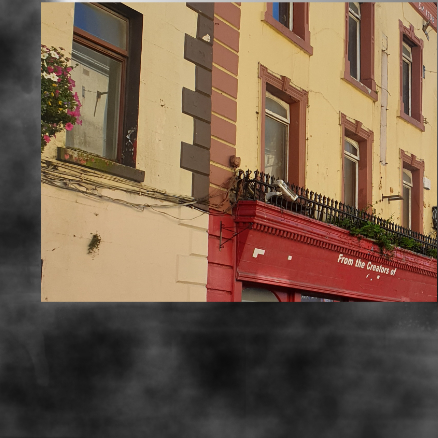
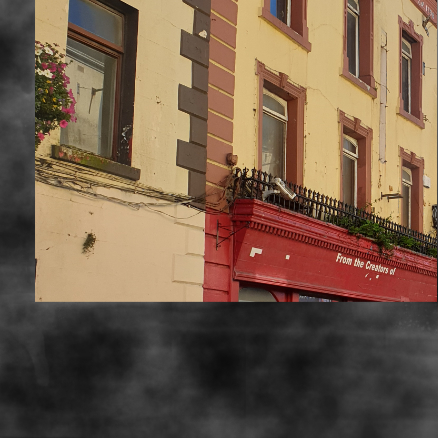
PS

diff --git a/index.html b/index.html
@@ -67,7 +67,7 @@
 				<!-- One -->
 					<section id="one" class="wrapper style2 spotlights">
 						<section>
-							<a href="#" class="image"><img src="images/BI.jpg" alt="" data-position="center center" /></a>
+							<a href="#" class="image"><img src="images/BI-1.jpg" alt="" data-position="center center" /></a>
 							<div class="content">
 								<div class="inner">
 									<h2>Sonic Art</h2>
